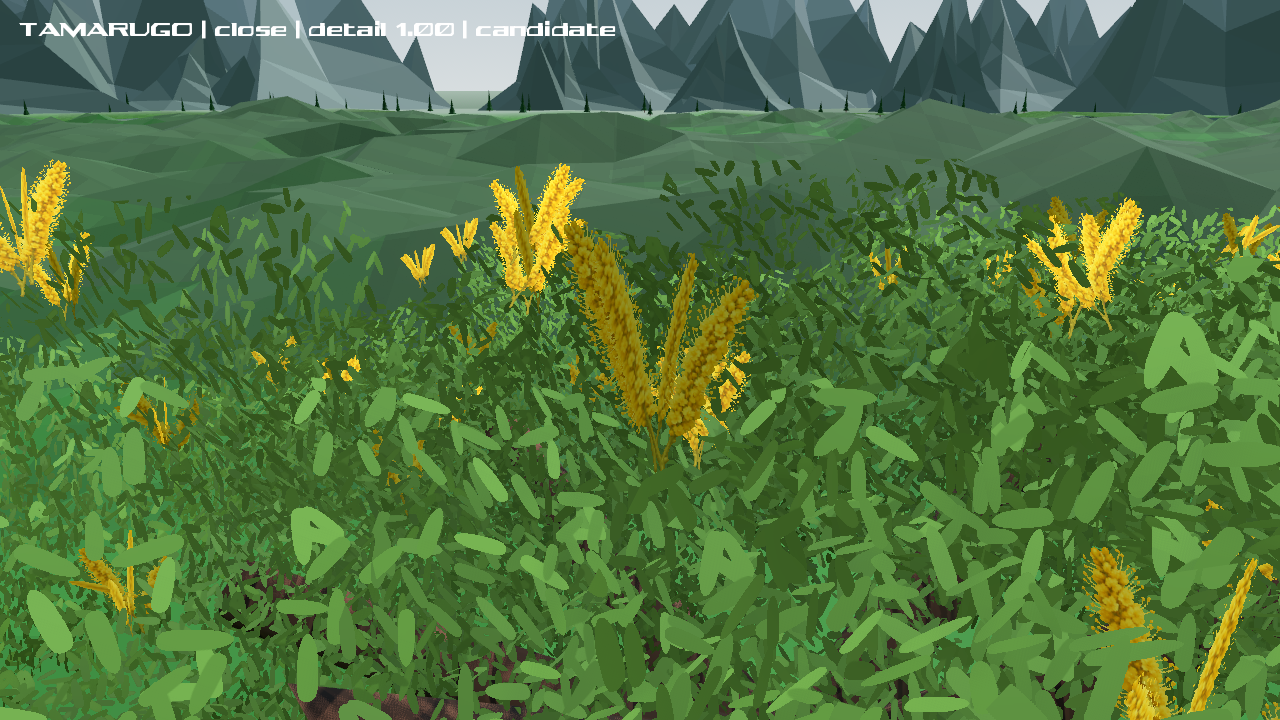
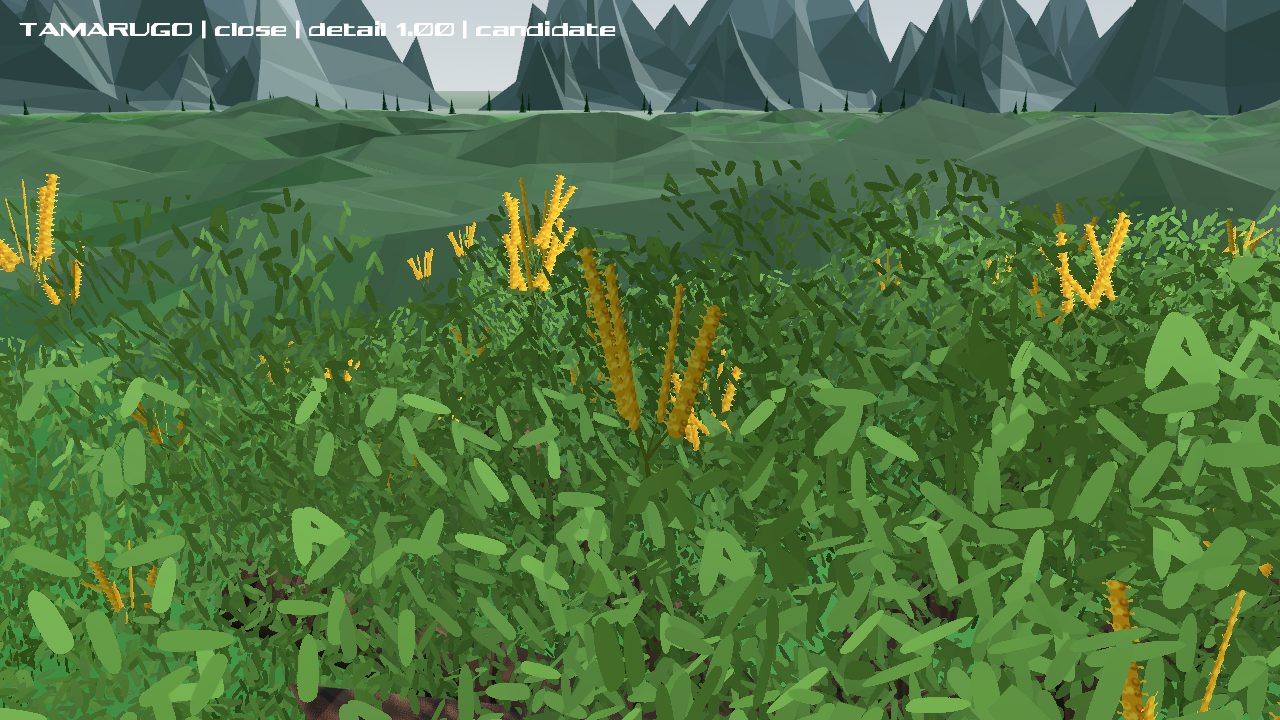
Replace flower review captures with procedural-only artwork

diff --git a/reviews/tree-flowers-706/README.md b/reviews/tree-flowers-706/README.md
@@ -1,0 +1,3 @@
+# Procedural flower review
+
+These are native production-world screenshots for scraps PR #707. All flower textures are painted by deterministic GDScript geometry using the existing leaf rasterizer. The comparison uses original main before and the procedural-only candidate after; image-model source assets are not used in this version.
